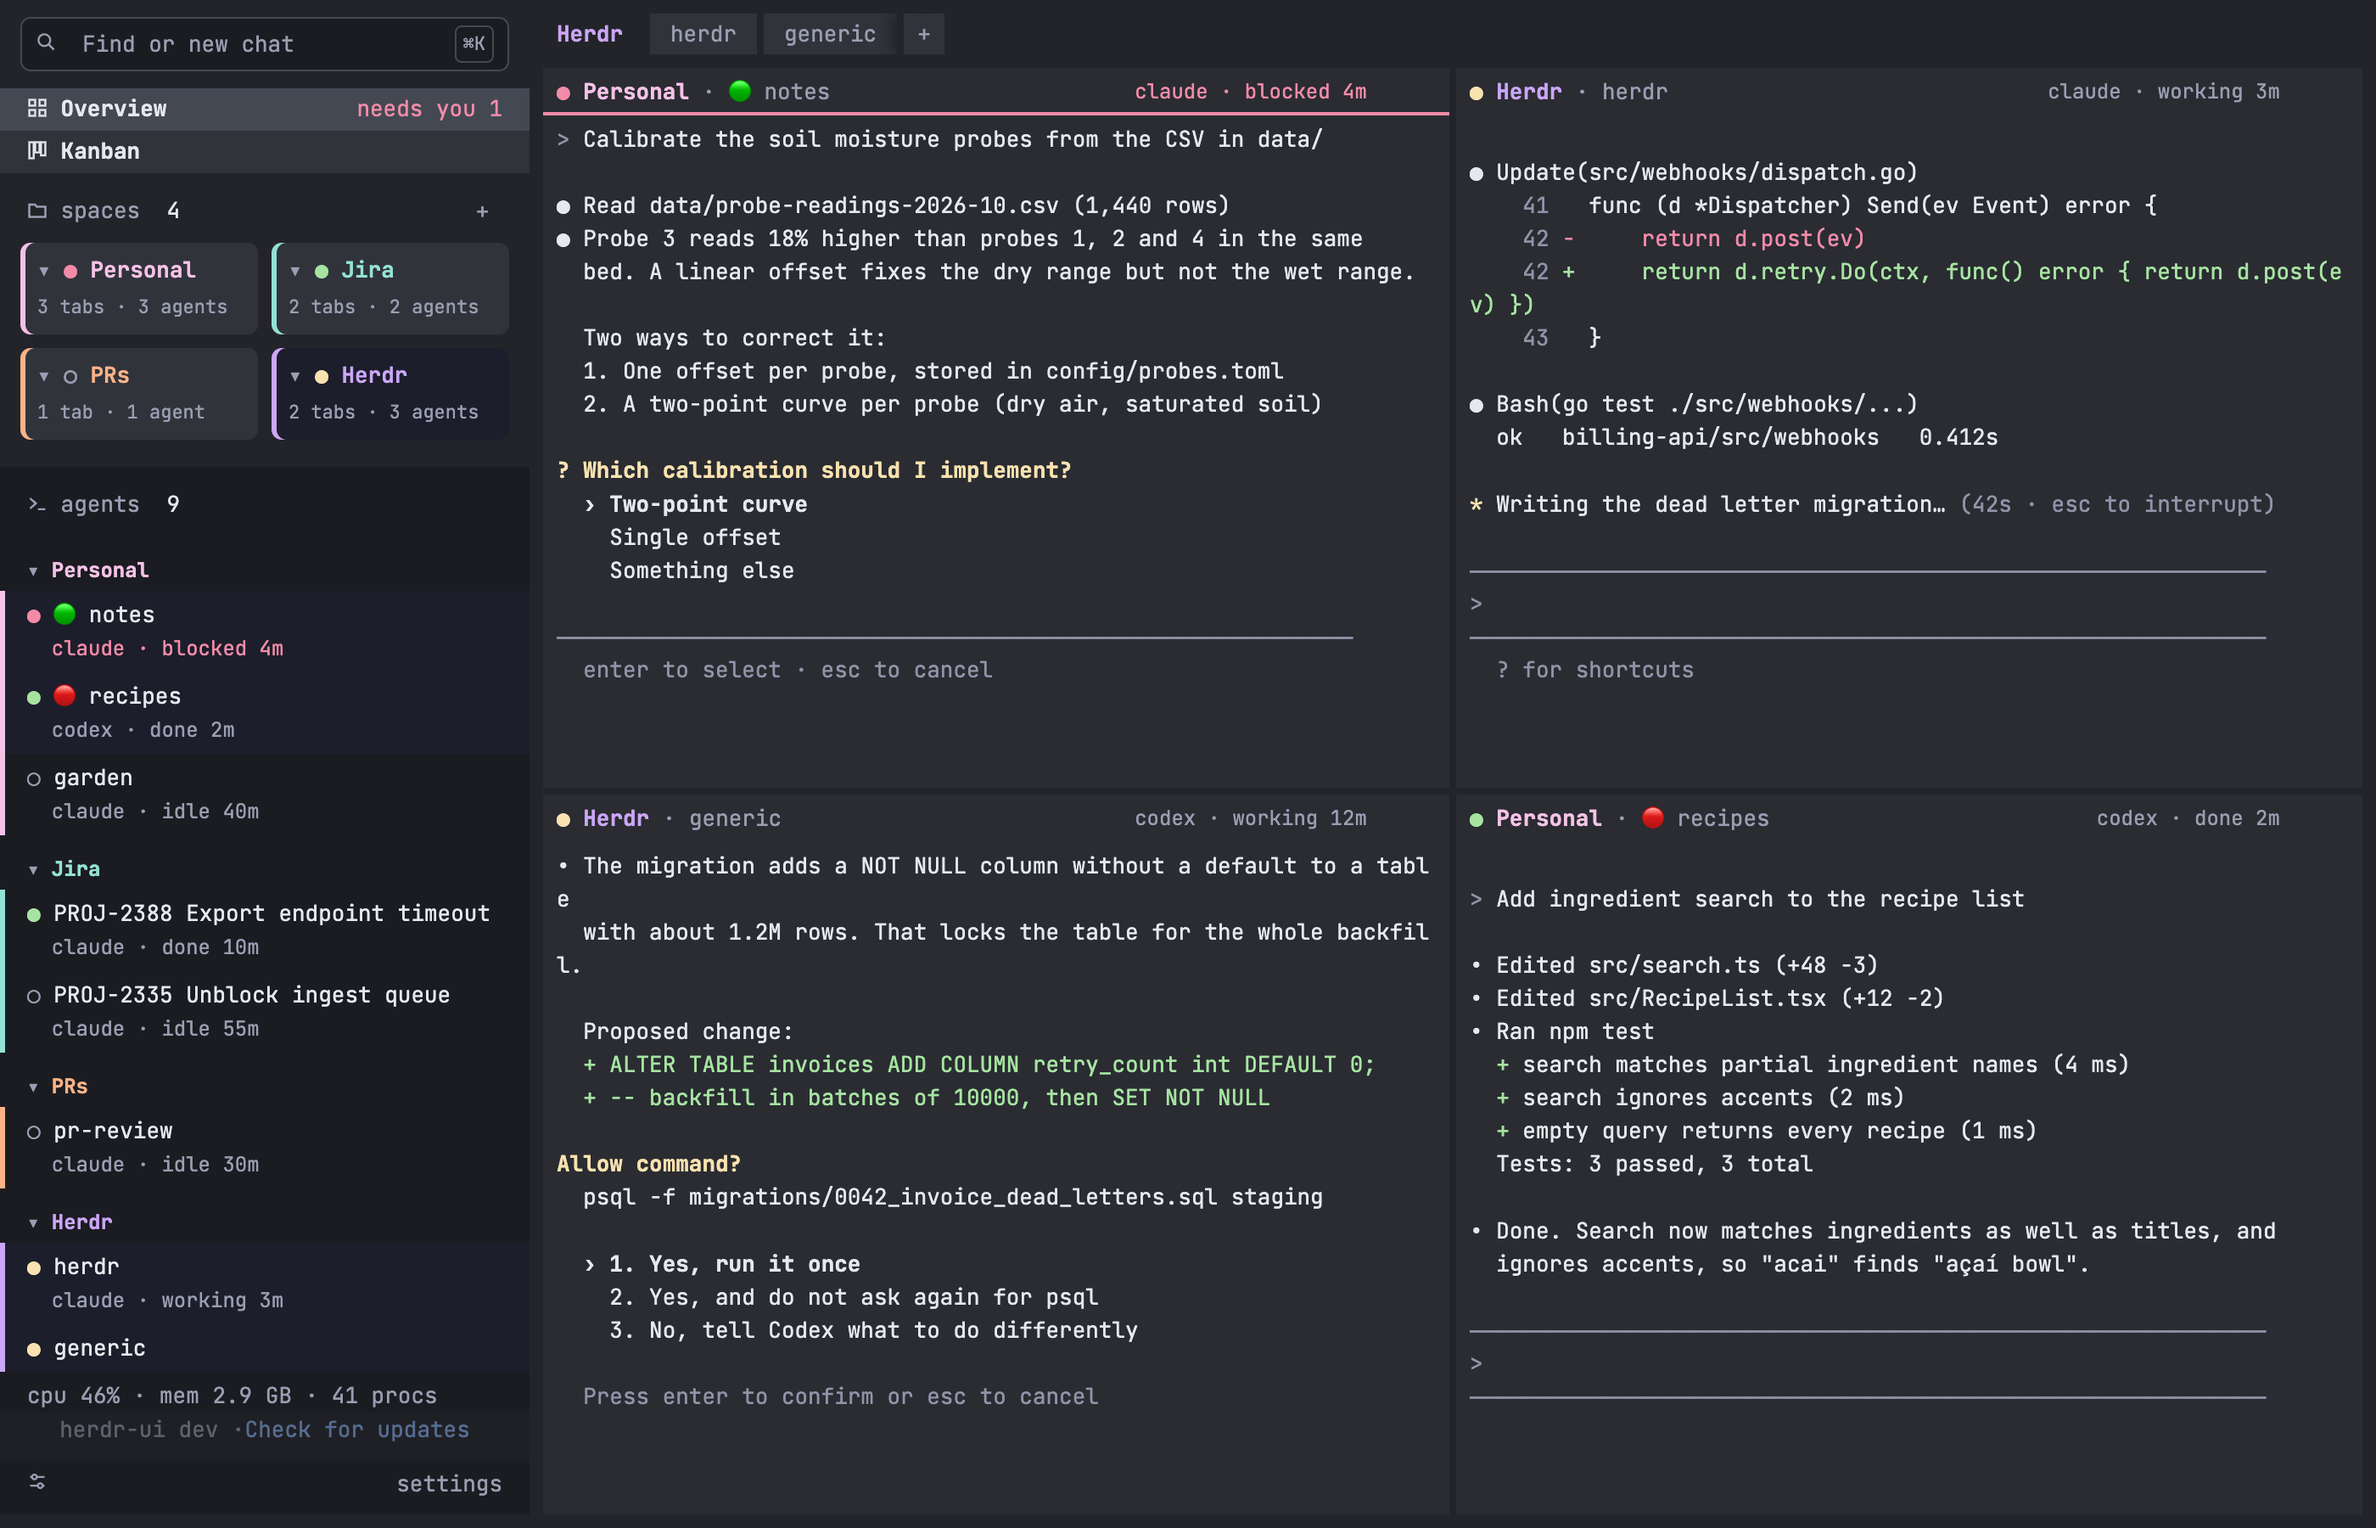
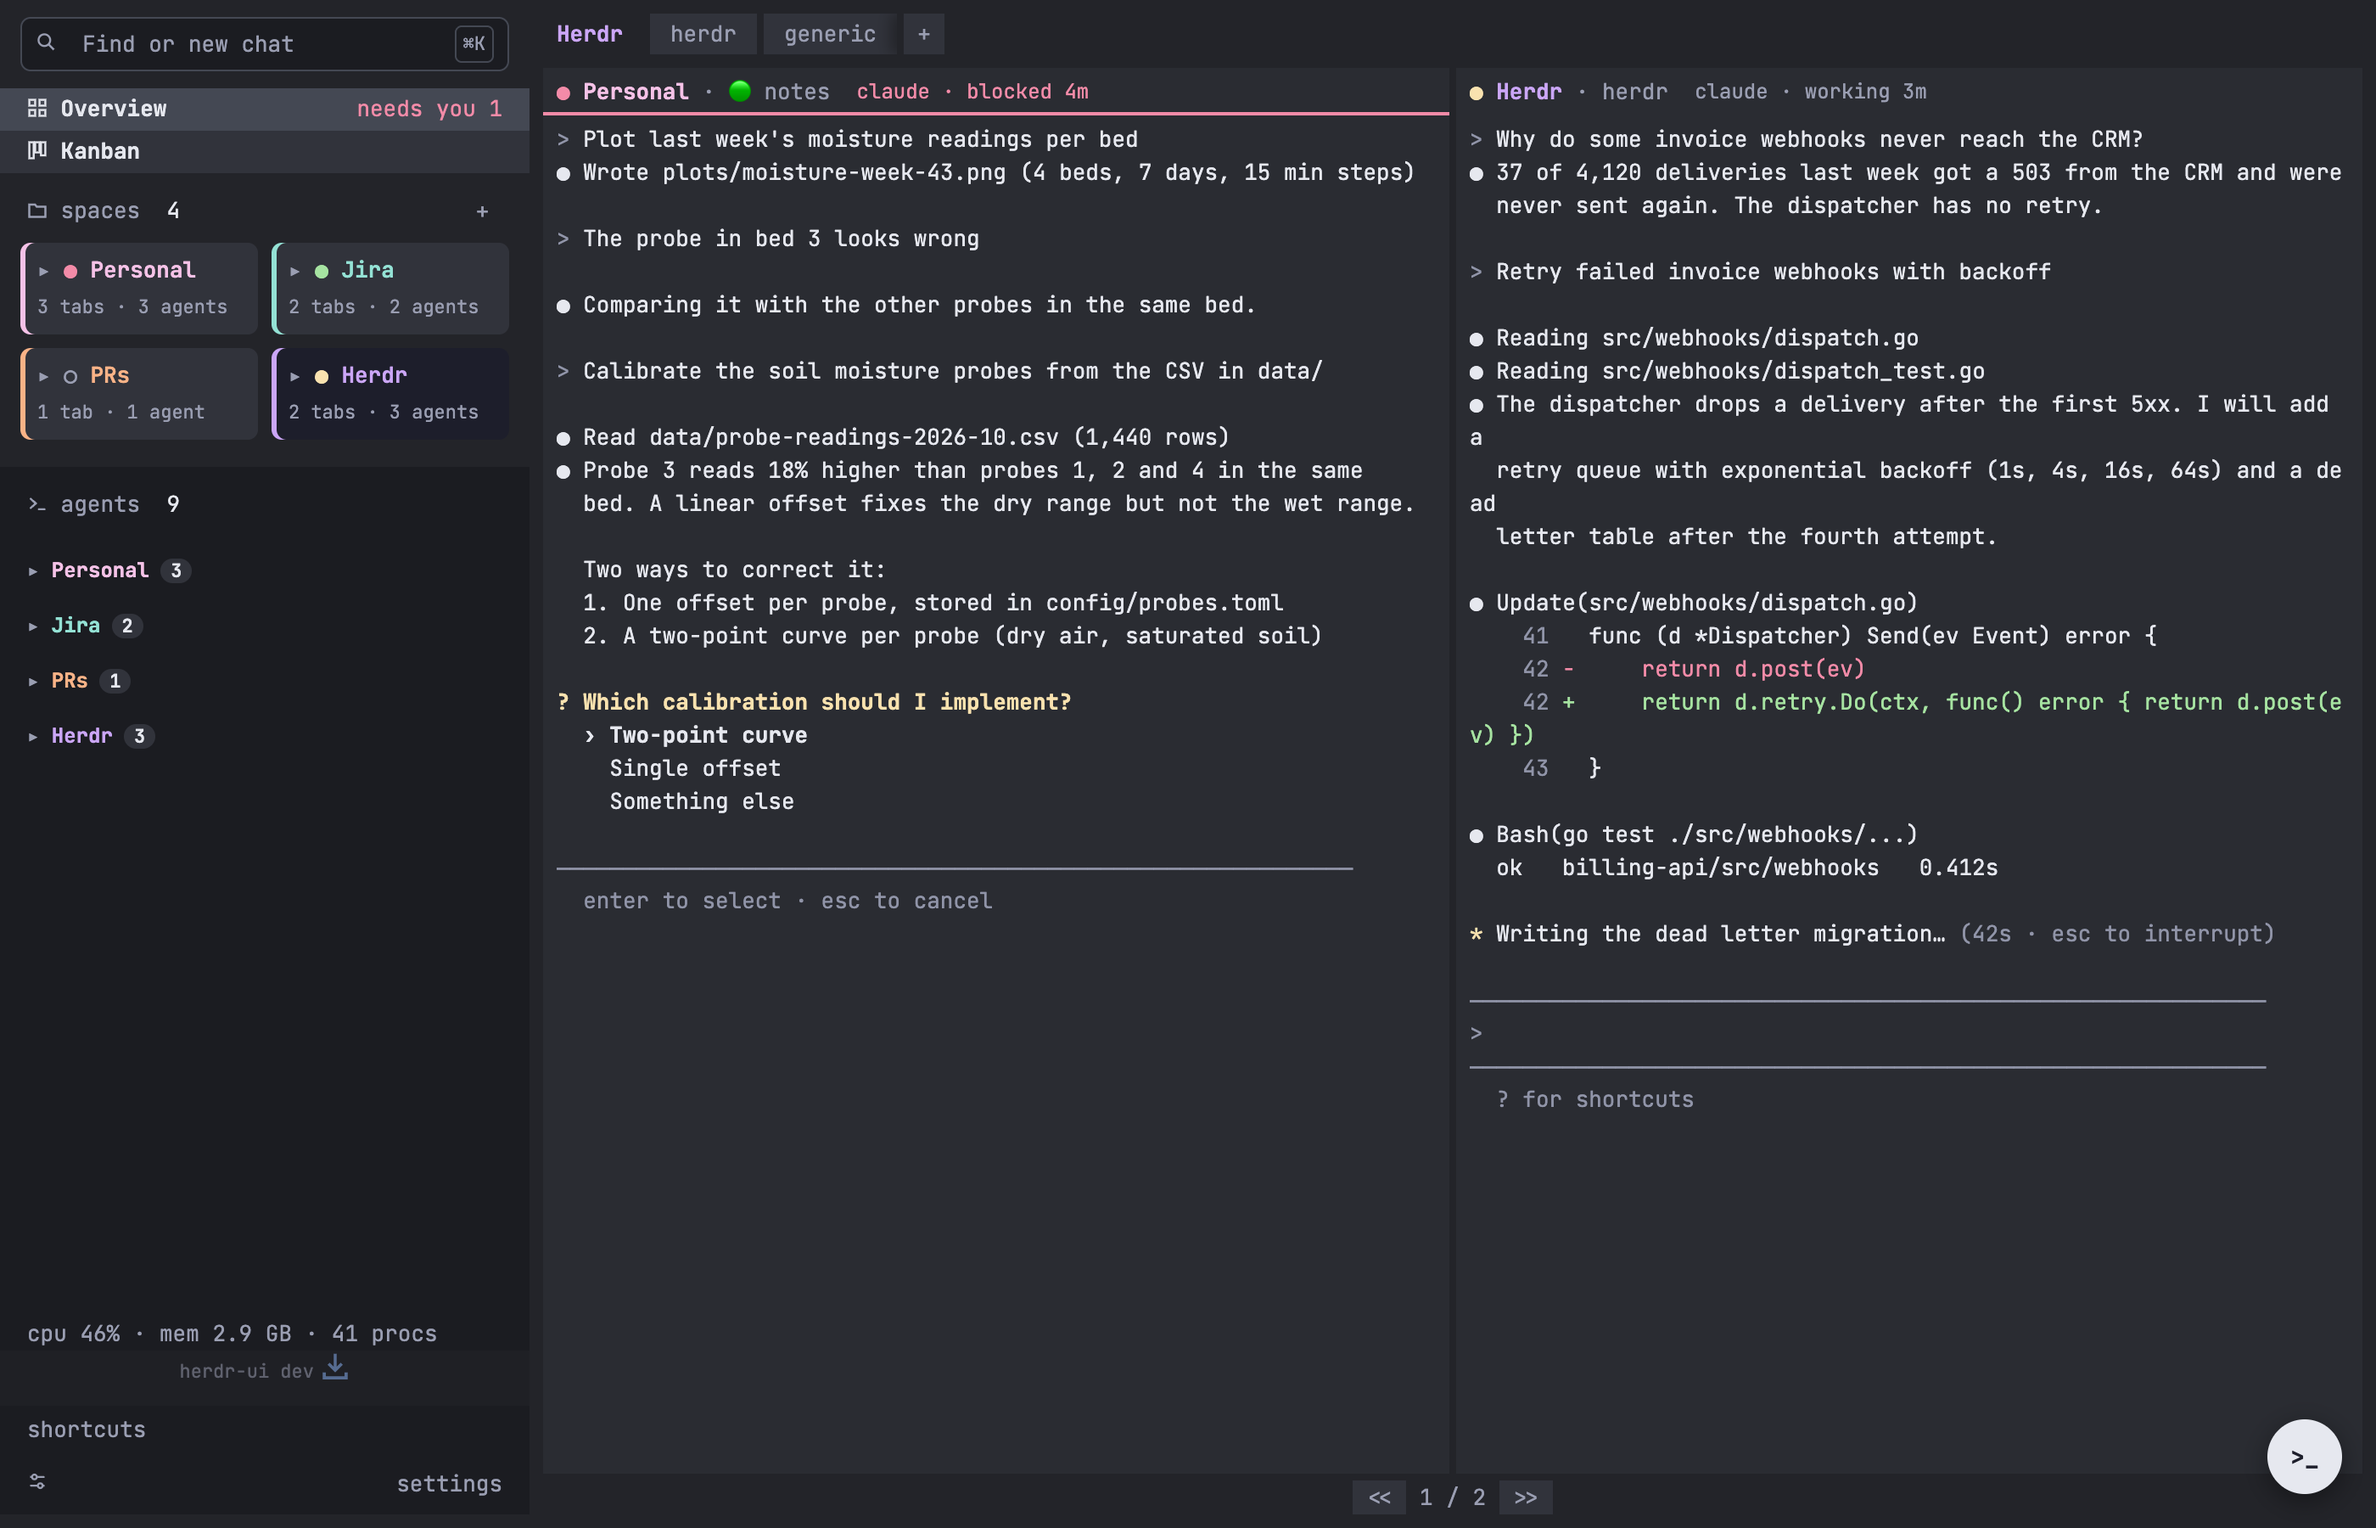
herdr-ui: v0.6.0 copy (carousel, shortcuts, one-click updates) and a new overview screenshot (#10)

diff --git a/herdr-ui/index.html b/herdr-ui/index.html
@@ -182,7 +182,7 @@ footer a:hover { color:var(--fg); }
       </div>
       <div class="stage">
         <div class="tilt">
-          <div class="frame"><div class="bar"><i></i><i></i><i></i><span>herdr-ui · Overview</span></div><img src="overview.png" width="2800" height="1800" alt="herdr-ui overview: a sidebar of spaces and agents beside a grid of live terminals"></div>
+          <div class="frame"><div class="bar"><i></i><i></i><i></i><span>herdr-ui · Overview</span></div><img src="overview.png" width="2800" height="1800" alt="herdr-ui overview: a sidebar of spaces and agents beside two live terminals"></div>
         </div>
         <div class="float notif"><div class="ic">🐑<em>1</em></div><div><b>Troubleshooting · checkout 5xx spike</b><span>claude needs you</span></div></div>
       </div>
@@ -198,16 +198,18 @@ footer a:hover { color:var(--fg); }
         <div>
           <div class="icon"><svg viewBox="0 0 24 24"><rect x="3" y="3" width="7" height="7" rx="1.5"/><rect x="14" y="3" width="7" height="7" rx="1.5"/><rect x="3" y="14" width="7" height="7" rx="1.5"/><rect x="14" y="14" width="7" height="7" rx="1.5"/></svg></div>
           <h2>Live <span class="grad">Overview</span></h2>
-          <p style="color:var(--body)">Everything that runs, in one place. Up to six live terminals you can type into.</p>
+          <p style="color:var(--body)">Everything that runs, in one place. Two live terminals side by side, the rest a page turn away.</p>
         </div>
         <div class="points">
           <div style="--c:var(--pink)"><b>It picks for you</b>Blocked agents first, then working ones and the ones that finished in the last five minutes. Idle agents leave.</div>
           <div style="--c:var(--cyan)"><b>Pin what you watch</b>A pinned agent stays in the overview, whatever its status, until you unpin it. Pins come first.</div>
           <div style="--c:var(--green)"><b>Cells stay put</b>A status change never moves a cell, so you never click the wrong terminal.</div>
           <div style="--c:var(--orange)"><b>Spaces in the sidebar</b>Jira, PRs, Troubleshooting. Each space starts folded, with a badge of its agent count.</div>
+          <div style="--c:var(--pink)"><b>Pages, not clutter</b>Two terminals at a time. <code>&lt;&lt;</code> / <code>&gt;&gt;</code> or ⇧⌘[ / ⇧⌘] slide to the next ones.</div>
+          <div style="--c:var(--cyan)"><b>Keyboard first</b>⌘T new tab, ⌘N new space, ⌘D split, ⌘W close, ⌘R reload. ⌘/ lists them all.</div>
         </div>
       </div>
-      <div class="frame"><div class="bar"><i></i><i></i><i></i><span>herdr-ui · Overview</span></div><img src="overview.png" width="2800" height="1800" alt="The overview grid with a blocked agent, two working agents and one that just finished" loading="lazy"></div>
+      <div class="frame"><div class="bar"><i></i><i></i><i></i><span>herdr-ui · Overview</span></div><img src="overview.png" width="2800" height="1800" alt="The overview: a blocked agent and a working one side by side, and a pager to the next two" loading="lazy"></div>
     </div>
   </section>
 
@@ -275,7 +277,7 @@ footer a:hover { color:var(--fg); }
         <ul class="list">
           <li><span><b>Plain words.</b> Open a chat, answer a blocked agent, rename or tidy spaces.</span></li>
           <li><span><b>Keeps the thread.</b> One running session, so it remembers what you asked before. New starts over.</span></li>
-          <li><span><b>Out of the way.</b> Its own hidden space, small and fast. A click outside closes it.</span></li>
+          <li><span><b>Out of the way.</b> Its own hidden space, small and fast. A click anywhere outside closes it. If its agent gets stuck on a login, it shows you that screen.</span></li>
         </ul>
       </div>
     </div>
@@ -311,7 +313,7 @@ footer a:hover { color:var(--fg); }
       <div class="rv"><div class="icon"><svg viewBox="0 0 24 24"><path d="M4 17l6-6-6-6"/><path d="M12 19h8"/></svg></div><b>Same session</b><p>Talks to herdr through its CLI and socket. Your spaces, tabs and agents show up as they are.</p></div>
       <div class="rv" style="--i:1"><div class="icon"><svg viewBox="0 0 24 24"><rect x="3" y="4" width="18" height="14" rx="2"/><path d="M8 21h8"/></svg></div><b>Browser or app</b><p>One Go binary serves the UI. Use it in the browser, or as the macOS app.</p></div>
       <div class="rv" style="--i:2"><div class="icon"><svg viewBox="0 0 24 24"><rect x="5" y="11" width="14" height="10" rx="2"/><path d="M8 11V7a4 4 0 0 1 8 0v4"/></svg></div><b>Local only</b><p>It listens on 127.0.0.1. Your sessions, folders and chats never leave your machine. It sends one anonymous ping a day (version, a random install id) to count active installs; feature stats are opt-in.</p></div>
-      <div class="rv" style="--i:3"><div class="icon"><svg viewBox="0 0 24 24"><path d="M21 12a9 9 0 1 1-3-6.7L21 8"/><path d="M21 3v5h-5"/></svg></div><b>Update notice</b><p>The app footer tells you when a newer version is out.</p></div>
+      <div class="rv" style="--i:3"><div class="icon"><svg viewBox="0 0 24 24"><path d="M21 12a9 9 0 1 1-3-6.7L21 8"/><path d="M21 3v5h-5"/></svg></div><b>One-click updates</b><p>A popup says when a new version is out. Update installs it and shows each step; What's new lists the changes.</p></div>
     </div>
   </section>
 
